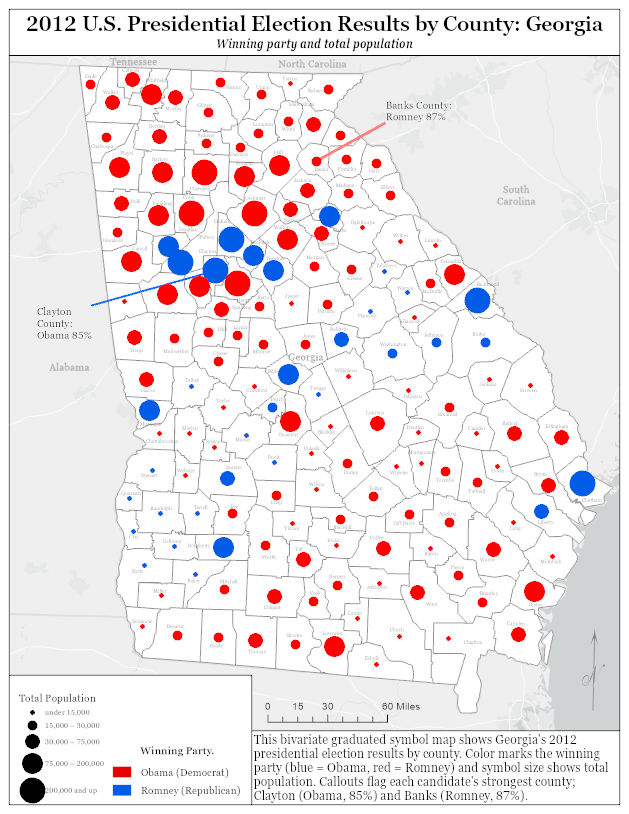
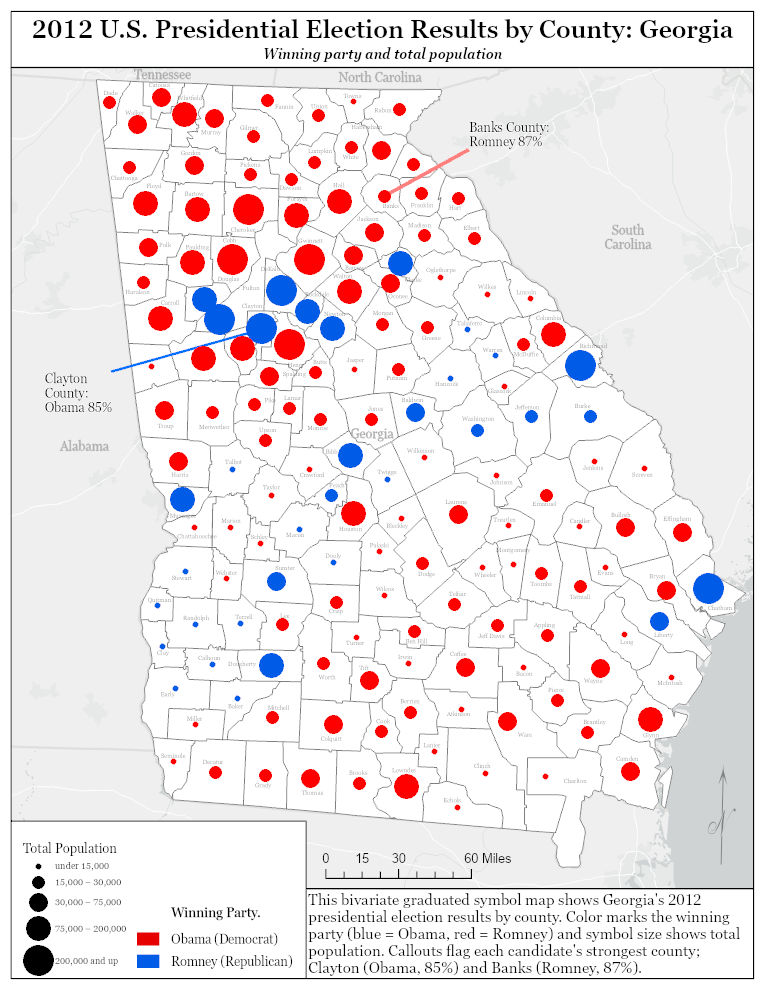
Week 5 cartography added again

diff --git a/_projects/cartography/week-5-design-principles.md b/_projects/cartography/week-5-design-principles.md
@@ -1,20 +1,20 @@
 ---
-title: "Cartographic Generalization Across Scale: Florida"
+title: "Sonoma County, CA"
 course: "Cartography"
-method: "Generalization Techniques"
-order: 6
+method: "Symbols and Iconography"
+order: 5
 featured: false
-thumbnail: /assets/images/projects/cartography/week-6/thumb.jpg
-summary: "A three map layout showing how cartographic generalization simplifies Florida and its surroundings as map scale decreases from 1:10,000,000 to 1:100,000,000."
+thumbnail: /assets/images/projects/cartography/week-5/thumb.jpg
+summary: "A bivariate graduated symbol map of Georgia’s 2012 presidential election results by county, encoding winning party through color and total population through symbol size."
 ---
 
 <figure class="project-map">
-  <a href="{{ '/assets/images/projects/cartography/week-6/map.png' | relative_url }}">
-    <img src="{{ '/assets/images/projects/cartography/week-6/map.png' | relative_url }}" alt="A three map layout showing how cartographic generalization simplifies Florida and its surroundings as map scale decreases from 1:10,000,000 to 1:100,000,000.">
+  <a href="{{ '/assets/images/projects/cartography/week-5/map.png' | relative_url }}">
+    <img src="{{ '/assets/images/projects/cartography/week-5/map.png' | relative_url }}" alt="A bivariate graduated symbol map of Georgia’s 2012 presidential election results by county, encoding winning party through color and total population through symbol size.">
   </a>
-  <figcaption>Florida at 1:10M, 1:50M, and 1:100M: coastlines simplify, small lakes drop away, and urban areas merge and then collapse to points as the scale gets smaller.</figcaption>
+  <figcaption>Georgia’s 2012 presidential results by county: color shows the winning party and symbol size shows population, with callouts marking each candidate’s strongest county.</figcaption>
 </figure>
 
 ## Overview
 
-This layout presents Florida at three scales, 1:10,000,000, 1:50,000,000, and 1:100,000,000, built in ArcGIS Pro with Natural Earth data and projected in NAD 1983 Florida GDL Albers. The assignment for this graduate cartography course called for three side by side maps of the same region to show how much detail a map can hold as its scale decreases. Each map applies generalization techniques suited to its scale: coastlines simplify, lakes are kept or removed based on the smallest size a reader can see, and urban areas are merged at 1:50M and reduced from shapes to points at 1:100M. Labels follow the same logic, with city names at the largest scale and only country and ocean names at the smallest. Matching symbols and scale bars of equal length keep the comparison focused on what changes from one scale to the next.
+This map presents the results of the 2012 U.S. presidential election across Georgia’s 159 counties using a bivariate graduated symbol design. Each county is represented by a point symbol whose color indicates the winning party, blue for Obama and red for Romney, and whose size reflects the county’s total population. Callout annotations highlight the counties where each candidate earned his highest vote share, Clayton County for Obama at 85 percent and Banks County for Romney at 87 percent. The assignment called for a bivariate graduated symbol map using point symbology rather than a choropleth, so that size and color could carry two variables at once without distorting the data by county land area. Projected in UTM Zone 17N, the map pairs a graduated size legend with a party color key to keep both variables clear to the reader.

diff --git a/_projects/cartography/week-6-design-principles.md b/_projects/cartography/week-6-design-principles.md
@@ -1,0 +1,20 @@
+---
+title: "Cartographic Generalization Across Scale: Florida"
+course: "Cartography"
+method: "Generalization Techniques"
+order: 6
+featured: false
+thumbnail: /assets/images/projects/cartography/week-6/thumb.jpg
+summary: "A three map layout showing how cartographic generalization simplifies Florida and its surroundings as map scale decreases from 1:10,000,000 to 1:100,000,000."
+---
+
+<figure class="project-map">
+  <a href="{{ '/assets/images/projects/cartography/week-6/map.png' | relative_url }}">
+    <img src="{{ '/assets/images/projects/cartography/week-6/map.png' | relative_url }}" alt="A three map layout showing how cartographic generalization simplifies Florida and its surroundings as map scale decreases from 1:10,000,000 to 1:100,000,000.">
+  </a>
+  <figcaption>Florida at 1:10M, 1:50M, and 1:100M: coastlines simplify, small lakes drop away, and urban areas merge and then collapse to points as the scale gets smaller.</figcaption>
+</figure>
+
+## Overview
+
+This layout presents Florida at three scales, 1:10,000,000, 1:50,000,000, and 1:100,000,000, built in ArcGIS Pro with Natural Earth data and projected in NAD 1983 Florida GDL Albers. The assignment for this graduate cartography course called for three side by side maps of the same region to show how much detail a map can hold as its scale decreases. Each map applies generalization techniques suited to its scale: coastlines simplify, lakes are kept or removed based on the smallest size a reader can see, and urban areas are merged at 1:50M and reduced from shapes to points at 1:100M. Labels follow the same logic, with city names at the largest scale and only country and ocean names at the smallest. Matching symbols and scale bars of equal length keep the comparison focused on what changes from one scale to the next.
